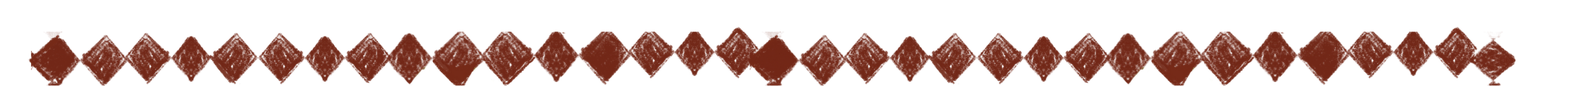
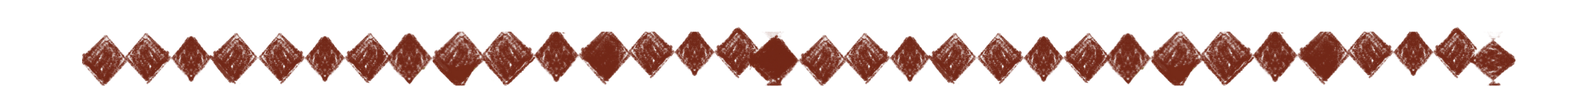
update margins 2 - mobile adjustment

Changed region(s): [[0.0, 0.3721, 0.0622, 1.0]]

diff --git a/app/layout.tsx b/app/layout.tsx
@@ -37,32 +37,14 @@ export default function RootLayout({
           overflow-x-hidden
         `}
       >
-        {/* ===== FRAME OVERLAY (ALWAYS VISIBLE, BUT BELOW SIDENAV PORTAL) ===== */}
         <div className="site-frame pointer-events-none fixed inset-0 z-[40]">
-          {/* TOP */}
-          <div className="absolute top-0 left-0 right-0 h-[32px] md:h-[64px]">
-            <img
-              src="/images/frame-top.png"
-              alt=""
-              className="w-full h-full object-cover md:object-fill"
-            />
-          </div>
-
-          {/* BOTTOM */}
-          <div className="absolute bottom-0 left-0 right-0 h-[32px] md:h-[64px]">
-            <img
-              src="/images/frame-bottom.png"
-              alt=""
-              className="w-full h-full object-cover md:object-fill"
-            />
-          </div>
-
           {/* MOBILE SIDES */}
           <img
             src="/images/frame-side.png"
             alt=""
             className="absolute left-0 top-0 h-dvh w-[32px] object-fill md:hidden"
           />
+
           <img
             src="/images/frame-side.png"
             alt=""
@@ -87,22 +69,37 @@ export default function RootLayout({
               backgroundPosition: "left top",
             }}
           />
+
+          {/* TOP FRAME */}
+          <div className="absolute top-0 left-[14px] right-[12px] h-[32px] md:left-0 md:right-0 md:h-[64px] z-[2]">
+            <img
+              src="/images/frame-top.png"
+              alt=""
+              className="w-full h-full object-cover md:object-fill"
+            />
+          </div>
+
+          {/* BOTTOM FRAME */}
+          <div className="absolute bottom-0 left-[14px] right-[12px] h-[32px] md:left-0 md:right-0 md:h-[64px] z-[2]">
+            <img
+              src="/images/frame-bottom.png"
+              alt=""
+              className="w-full h-full object-cover md:object-fill"
+            />
+          </div>
         </div>
 
-        {/* ===== CONTENT (SCROLLS UNDER FRAME) ===== */}
         <div
           className="
             site-content
             relative
             z-[10]
             min-h-dvh
-
             pt-[24px]
             pb-[24px]
             px-[32px]
-
-            md:pt-[48px]
-            md:pb-[48px]
+            md:pt-[64px]
+            md:pb-[64px]
             md:px-[64px]
           "
         >
